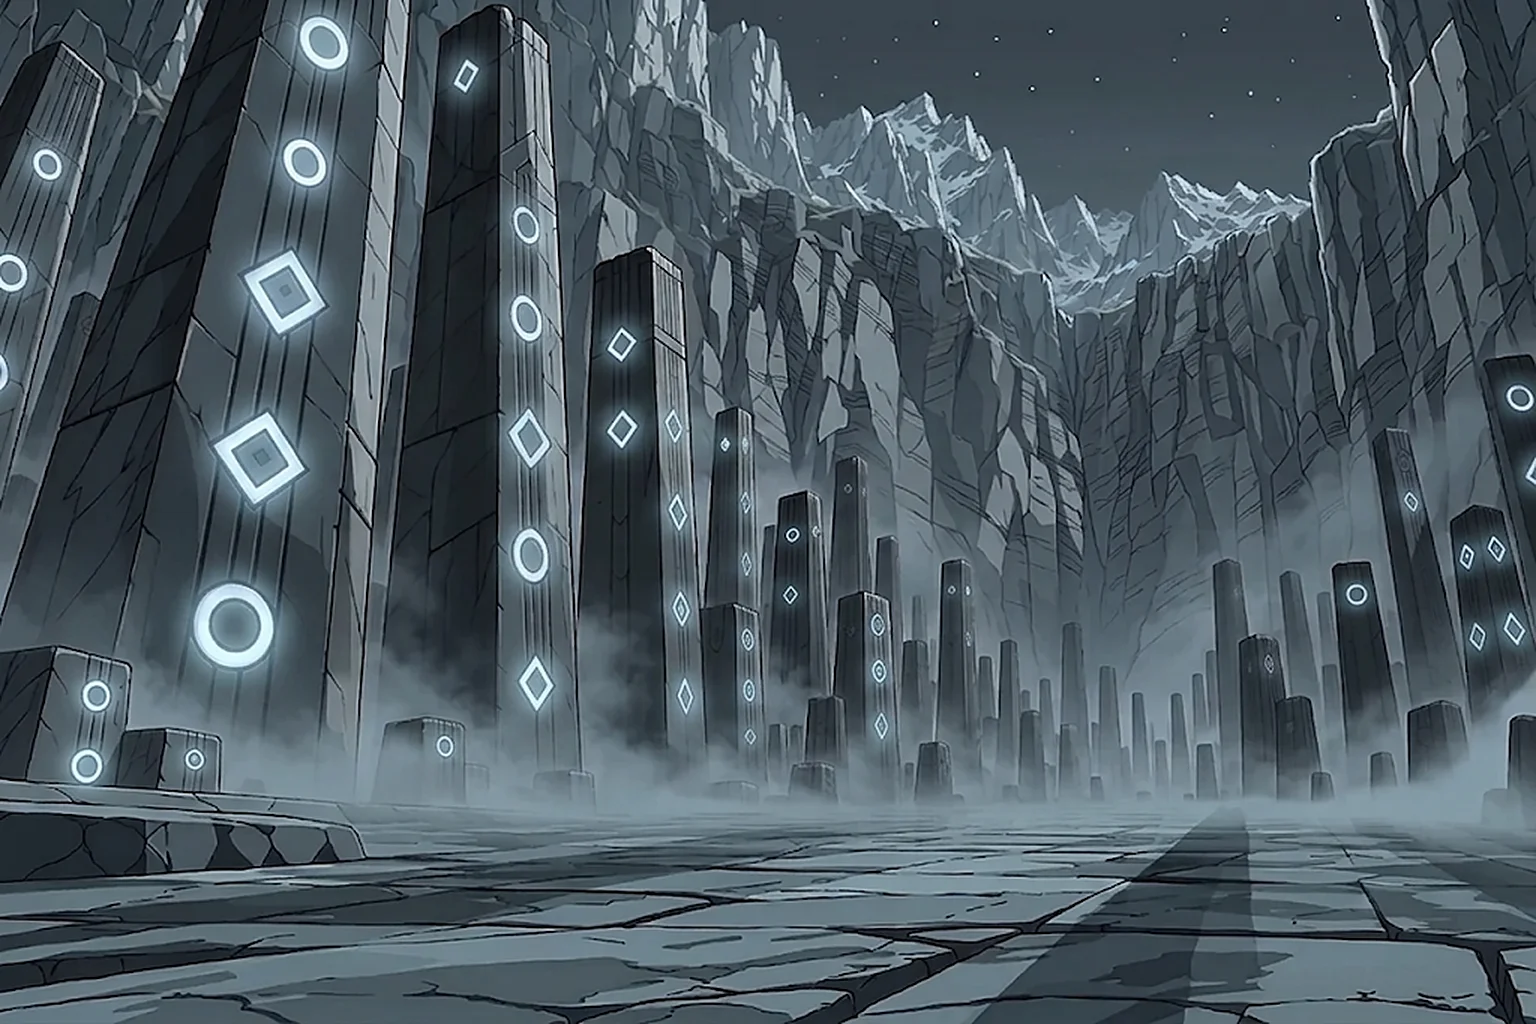
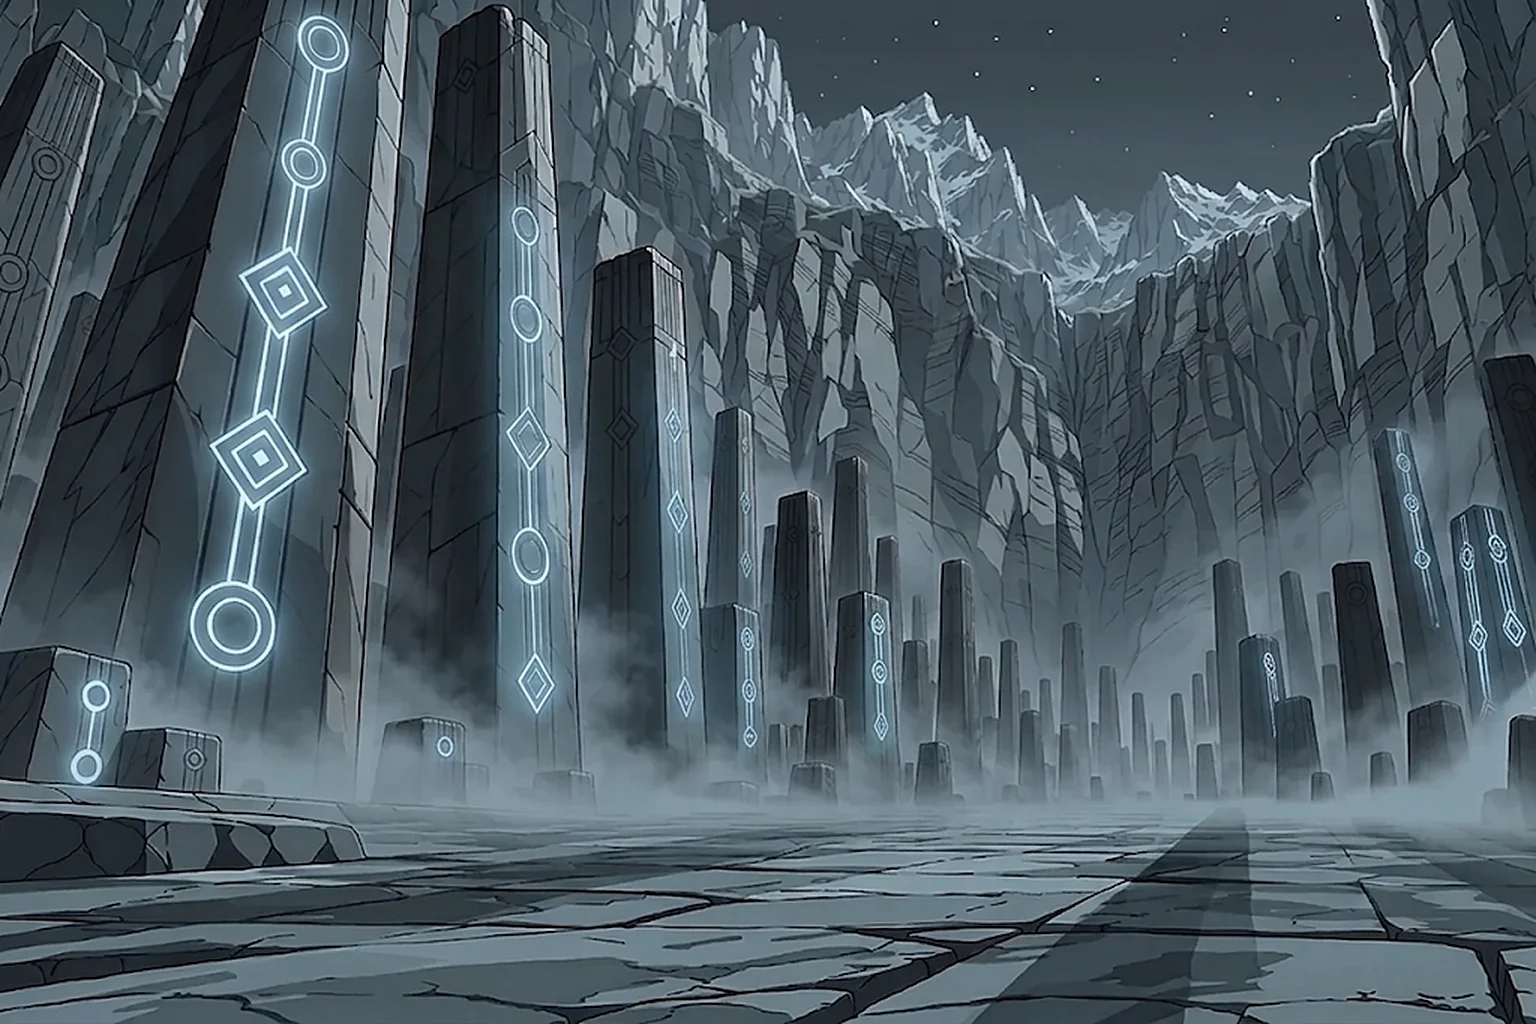
art(鏡湖): 修 glow_night 走針（刻痕被重畫成不相連的漂浮符號）ver -1500
· 原圖的刻痕是一條連續的縱向鏈（直線串起菱形與圓），v1 把線拿掉、還在沒刻痕的石碑上長出新符號
· ⚠⚠ 既有的兩道量化守門（亮度佈局／梯度分塊）對這種「只佔 3% 畫面的小塊」完全是瞎的 —— 已寫進 spec
· 修法：把圖案的結構寫進提示詞（保留連接的直線），一次就過

diff --git a/resources/map/_lake_spec.md b/resources/map/_lake_spec.md
@@ -135,6 +135,29 @@ Gemini 的「下載圖片／下載原尺寸圖片」**需要真人手勢**，任
    ⚠ 這個數字**比純換光的 0.9 低很多是正常的** —— Gemini 是「重畫」不是「重打光」，
    雲會變、岩面的細線會重排。**它只用來抓離群值，最後仍以並排肉眼為準。**
 
+
+### ⚠⚠⚠ ver -1500：`glow_night` 走針 —— **「小改動」也會被重畫，而且守門抓不到**
+
+Ray 一眼看出來：發光版 night 把刻痕**重畫**了 —— 原圖是「**一條連續的縱向鐵鏈**：
+直線把菱形與圓串在一起」，它畫成**一串彼此不相連的漂浮符號**，大小間距全跑掉，
+右邊原本沒有刻痕的石碑還長出新的。day／dawn／dusk 三張都守住了，只有它沒有。
+
+⚠⚠ **既有的兩道守門全部沒抓到**：
+· 亮度佈局相關度（64×43）—— 構圖沒動，過。
+· 梯度分塊相關度 —— 同一批裡看不出離群。
+· 連「冷色亮點面積」都看不出來（夜景整片本來就是藍的）。
+⇒ **「只改一小塊」的差分，量化守門是瞎的。那一塊本來就佔不到畫面的 3%。**
+  這一類只能**把同一個東西的各版並排，逐個看那一塊**（`glow_pairs.png` 那種排法）。
+
+⚠ 修法是**把圖案的結構寫進提示詞**，不要只說「不要改」：
+  「那是一條連續的縱向鐵鏈 —— 直線把菱形與圓串在一起，上下相接。
+    **請保留那些連接的直線**，不要畫成一串漂浮的、彼此不相連的獨立符號。」
+  ＋「符號的位置、大小、數量、間距完全照原圖，**原圖沒有刻痕的石碑就不要長出新的**」。
+  一次就過。
+
+⚠ 自檢：**凡是「只改畫面上某一小塊」的差分，交件前一定要把那一小塊的各版並排看過**
+  —— 全圖的指標對它沒有解析度。
+
 ### ⚠ 還沒定
 
 **地名與 `Lake_` 前綴仍是暫名。** 現在有 44 個檔名綁著它，愈晚改愈貴。
